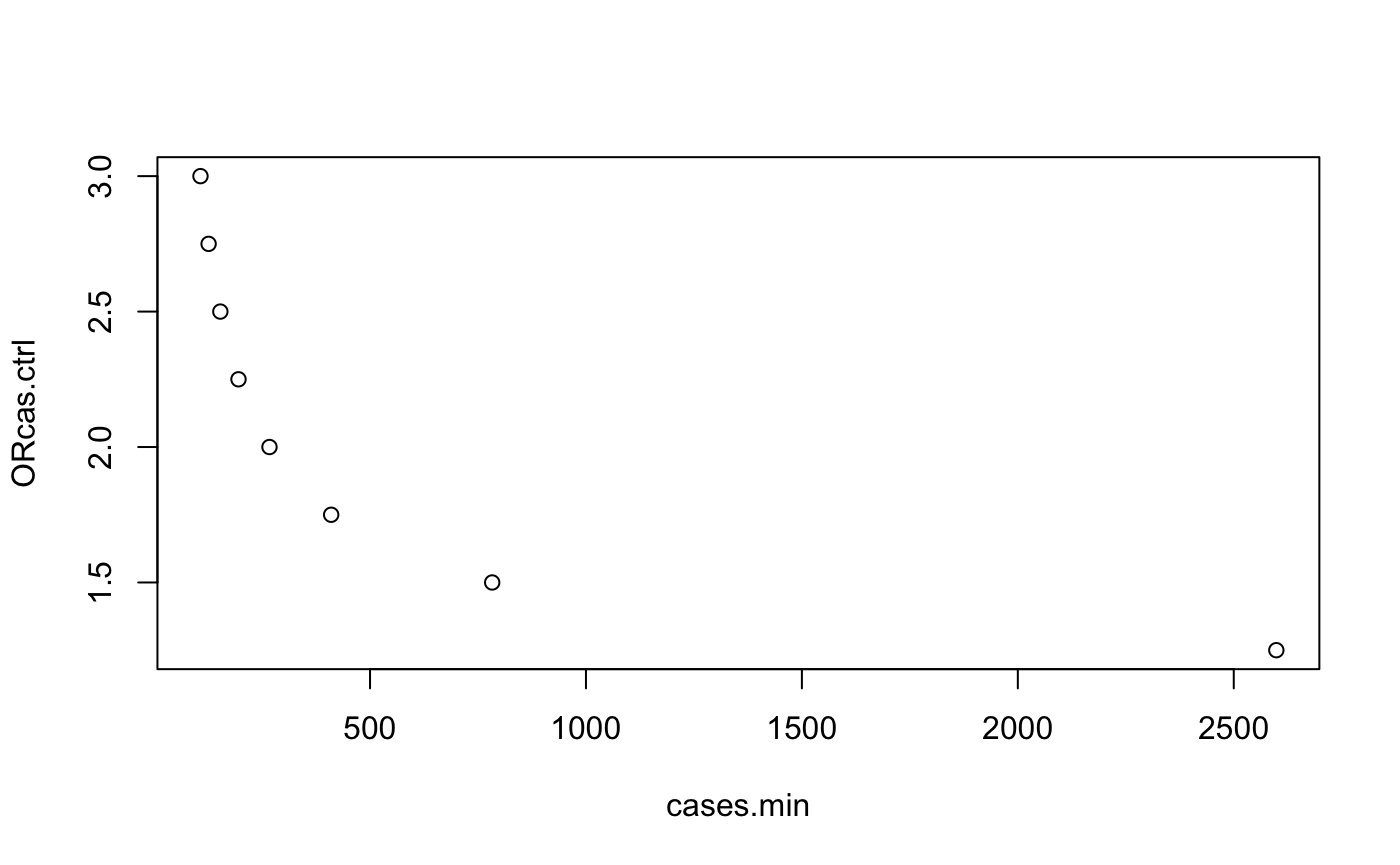
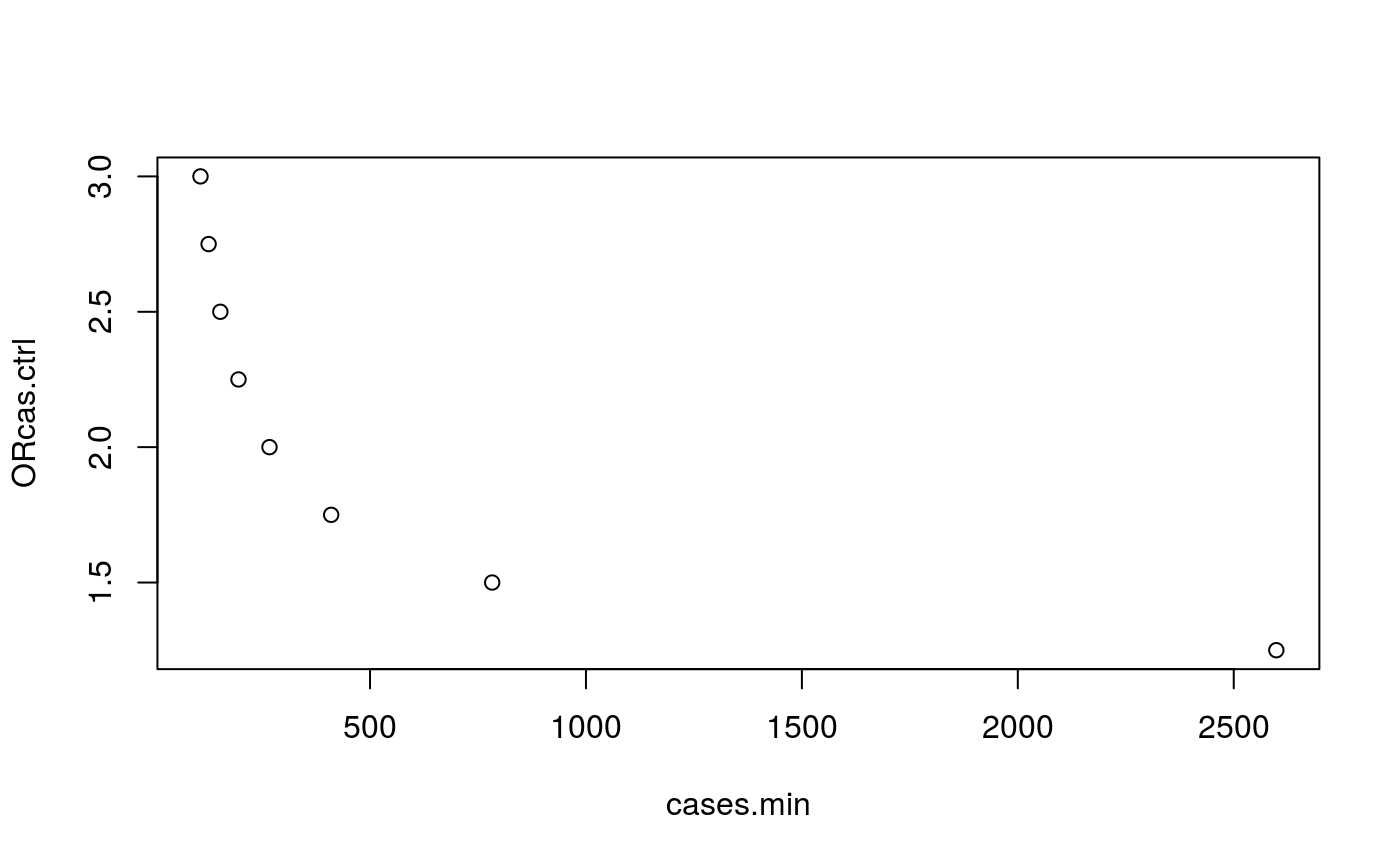
Updated car:: example

diff --git a/docs/index.html b/docs/index.html
@@ -8,8 +8,7 @@
 <title>Sample Size and Power for Association Studies Involving
     Mitochondrial DNA Haplogroups • mthapower</title>
 <!-- jquery --><script src="https://cdnjs.cloudflare.com/ajax/libs/jquery/3.3.1/jquery.min.js" integrity="sha256-FgpCb/KJQlLNfOu91ta32o/NMZxltwRo8QtmkMRdAu8=" crossorigin="anonymous"></script><!-- Bootstrap --><link href="https://cdnjs.cloudflare.com/ajax/libs/bootswatch/3.3.7/cosmo/bootstrap.min.css" rel="stylesheet" crossorigin="anonymous">
-<script src="https://cdnjs.cloudflare.com/ajax/libs/twitter-bootstrap/3.3.7/js/bootstrap.min.js" integrity="sha256-U5ZEeKfGNOja007MMD3YBI0A3OSZOQbeG6z2f2Y0hu8=" crossorigin="anonymous"></script><!-- Font Awesome icons --><link rel="stylesheet" href="https://cdnjs.cloudflare.com/ajax/libs/font-awesome/5.7.1/css/all.min.css" integrity="sha256-nAmazAk6vS34Xqo0BSrTb+abbtFlgsFK7NKSi6o7Y78=" crossorigin="anonymous">
-<link rel="stylesheet" href="https://cdnjs.cloudflare.com/ajax/libs/font-awesome/5.7.1/css/v4-shims.min.css" integrity="sha256-6qHlizsOWFskGlwVOKuns+D1nB6ssZrHQrNj1wGplHc=" crossorigin="anonymous">
+<script src="https://cdnjs.cloudflare.com/ajax/libs/twitter-bootstrap/3.3.7/js/bootstrap.min.js" integrity="sha256-U5ZEeKfGNOja007MMD3YBI0A3OSZOQbeG6z2f2Y0hu8=" crossorigin="anonymous"></script><!-- Font Awesome icons --><link rel="stylesheet" href="https://cdnjs.cloudflare.com/ajax/libs/font-awesome/4.7.0/css/font-awesome.min.css" integrity="sha256-eZrrJcwDc/3uDhsdt61sL2oOBY362qM3lon1gyExkL0=" crossorigin="anonymous">
 <!-- clipboard.js --><script src="https://cdnjs.cloudflare.com/ajax/libs/clipboard.js/2.0.4/clipboard.min.js" integrity="sha256-FiZwavyI2V6+EXO1U+xzLG3IKldpiTFf3153ea9zikQ=" crossorigin="anonymous"></script><!-- sticky kit --><script src="https://cdnjs.cloudflare.com/ajax/libs/sticky-kit/1.1.3/sticky-kit.min.js" integrity="sha256-c4Rlo1ZozqTPE2RLuvbusY3+SU1pQaJC0TjuhygMipw=" crossorigin="anonymous"></script><!-- pkgdown --><link href="pkgdown.css" rel="stylesheet">
 <script src="pkgdown.js"></script><link href="extra.css" rel="stylesheet">
 <meta property="og:title" content="Sample Size and Power for Association Studies Involving
@@ -93,12 +92,12 @@
 <ul>
 <li>From CRAN:</li>
 </ul>
-<div class="sourceCode"><pre class="sourceCode r"><code class="sourceCode r"><span class="kw"><a href="https://rdrr.io/r/utils/install.packages.html">install.packages</a></span>(<span class="st">"mthapower"</span>)</code></pre></div>
+<div class="sourceCode"><pre class="sourceCode r"><code class="sourceCode r"><span class="kw"><a href="https://www.rdocumentation.org/packages/utils/topics/install.packages">install.packages</a></span>(<span class="st">"mthapower"</span>)</code></pre></div>
 <ul>
 <li>From GitHub:</li>
 </ul>
 <div class="sourceCode"><pre class="sourceCode r"><code class="sourceCode r"><span class="co"># install.packages("devtools")</span>
-devtools<span class="op">::</span><span class="kw"><a href="https://rdrr.io/pkg/devtools/man/reexports.html">install_github</a></span>(<span class="st">"aurora-mareviv/mthapower"</span>)</code></pre></div>
+devtools<span class="op">::</span><span class="kw"><a href="https://www.rdocumentation.org/packages/devtools/topics/reexports">install_github</a></span>(<span class="st">"aurora-mareviv/mthapower"</span>)</code></pre></div>
 </div>
 <div id="shiny-app" class="section level2">
 <h2 class="hasAnchor">
@@ -109,7 +108,7 @@ devtools<span class="op">::</span><span class="kw"><a href="https://rdrr.io/pkg/
 <li>Run locally from Gist:</li>
 </ul>
 <div class="sourceCode"><pre class="sourceCode r"><code class="sourceCode r"><span class="co"># install.packages("shiny")</span>
-shiny<span class="op">::</span><span class="kw"><a href="https://rdrr.io/pkg/shiny/man/runUrl.html">runGist</a></span>(<span class="st">'5895082'</span>)</code></pre></div>
+shiny<span class="op">::</span><span class="kw"><a href="https://www.rdocumentation.org/packages/shiny/topics/runUrl">runGist</a></span>(<span class="st">'5895082'</span>)</code></pre></div>
 </div>
 <div id="examples" class="section level2">
 <h2 class="hasAnchor">
@@ -120,17 +119,17 @@ shiny<span class="op">::</span><span class="kw"><a href="https://rdrr.io/pkg/shi
 <ul>
 <li>Determine the minimum number of cases (<code>Ncmin</code>), required to detect: either a change from <code>p0</code> (haplogroup frequency in controls) to <code>p1</code> (haplogroup frequency in cases), or a given OR, with a predefined confidence interval, in a study with <code>Nh</code> haplogroups.</li>
 </ul>
-<div class="sourceCode"><pre class="sourceCode r"><code class="sourceCode r"><span class="kw"><a href="https://rdrr.io/r/base/library.html">library</a></span>(mthapower)
-<span class="kw"><a href="https://rdrr.io/r/base/library.html">library</a></span>(dplyr)
+<div class="sourceCode"><pre class="sourceCode r"><code class="sourceCode r"><span class="kw"><a href="https://www.rdocumentation.org/packages/base/topics/library">library</a></span>(mthapower)
+<span class="kw"><a href="https://www.rdocumentation.org/packages/base/topics/library">library</a></span>(dplyr)
 mydata &lt;-<span class="st"> </span><span class="kw"><a href="reference/mthacases.html">mthacases</a></span>(<span class="dt">p0=</span><span class="fl">0.445</span>, <span class="dt">Nh=</span><span class="dv">11</span>,
-                    <span class="dt">OR.cas.ctrl=</span><span class="kw"><a href="https://rdrr.io/r/base/c.html">c</a></span>(<span class="dv">2</span>), <span class="dt">power=</span><span class="dv">80</span>,
+                    <span class="dt">OR.cas.ctrl=</span><span class="kw"><a href="https://www.rdocumentation.org/packages/base/topics/c">c</a></span>(<span class="dv">2</span>), <span class="dt">power=</span><span class="dv">80</span>,
                     <span class="dt">sig.level=</span><span class="fl">0.05</span>) <span class="co"># Baudouin study</span>
 mydata &lt;-<span class="st"> </span><span class="kw"><a href="reference/mthacases.html">mthacases</a></span>(<span class="dt">p0=</span><span class="fl">0.445</span>, <span class="dt">Nh=</span><span class="dv">11</span>,
-                    <span class="dt">OR.cas.ctrl=</span><span class="kw"><a href="https://rdrr.io/r/base/c.html">c</a></span>(<span class="fl">1.25</span>,<span class="fl">1.5</span>,<span class="fl">1.75</span>,<span class="dv">2</span>,<span class="fl">2.25</span>,<span class="fl">2.5</span>,<span class="fl">2.75</span>,<span class="dv">3</span>),
+                    <span class="dt">OR.cas.ctrl=</span><span class="kw"><a href="https://www.rdocumentation.org/packages/base/topics/c">c</a></span>(<span class="fl">1.25</span>,<span class="fl">1.5</span>,<span class="fl">1.75</span>,<span class="dv">2</span>,<span class="fl">2.25</span>,<span class="fl">2.5</span>,<span class="fl">2.75</span>,<span class="dv">3</span>),
                     <span class="dt">power=</span><span class="dv">80</span>, <span class="dt">sig.level=</span><span class="fl">0.05</span>)
-mydata &lt;-<span class="st"> </span>mydata[<span class="kw"><a href="https://rdrr.io/r/base/c.html">c</a></span>(<span class="dv">2</span>,<span class="dv">6</span>)]
+mydata &lt;-<span class="st"> </span>mydata[<span class="kw"><a href="https://www.rdocumentation.org/packages/base/topics/c">c</a></span>(<span class="dv">2</span>,<span class="dv">6</span>)]
 mydata <span class="op">%&gt;%</span>
-<span class="st">  </span>knitr<span class="op">::</span><span class="kw"><a href="https://rdrr.io/pkg/knitr/man/kable.html">kable</a></span>()</code></pre></div>
+<span class="st">  </span>knitr<span class="op">::</span><span class="kw"><a href="https://www.rdocumentation.org/packages/knitr/topics/kable">kable</a></span>()</code></pre></div>
 <table class="table table">
 <thead><tr class="header">
 <th align="right">cases.min</th>
@@ -171,7 +170,7 @@ mydata <span class="op">%&gt;%</span>
 </tr>
 </tbody>
 </table>
-<div class="sourceCode"><pre class="sourceCode r"><code class="sourceCode r"><span class="kw"><a href="https://rdrr.io/r/graphics/plot.html">plot</a></span>(mydata)</code></pre></div>
+<div class="sourceCode"><pre class="sourceCode r"><code class="sourceCode r"><span class="kw"><a href="https://www.rdocumentation.org/packages/graphics/topics/plot">plot</a></span>(mydata)</code></pre></div>
 <p><img src="images/README-example-1.png" width="700"></p>
 </div>
 <div id="power-estimation" class="section level3">
@@ -184,7 +183,7 @@ mydata <span class="op">%&gt;%</span>
 <span class="co"># library(mthapower)</span>
 pow &lt;-<span class="st"> </span><span class="kw"><a href="reference/mthapower.html">mthapower</a></span>(<span class="dt">n.cases=</span><span class="dv">203</span>, <span class="dt">p0=</span><span class="fl">0.443</span>, <span class="dt">Nh=</span><span class="dv">13</span>, <span class="dt">OR.cas.ctrl=</span><span class="fl">2.33</span>, <span class="dt">sig.level=</span><span class="fl">0.05</span>)
 pow <span class="op">%&gt;%</span>
-<span class="st">  </span>knitr<span class="op">::</span><span class="kw"><a href="https://rdrr.io/pkg/knitr/man/kable.html">kable</a></span>()</code></pre></div>
+<span class="st">  </span>knitr<span class="op">::</span><span class="kw"><a href="https://www.rdocumentation.org/packages/knitr/topics/kable">kable</a></span>()</code></pre></div>
 <table class="table table">
 <thead><tr class="header">
 <th align="right">Nh</th>
@@ -209,29 +208,29 @@ pow <span class="op">%&gt;%</span>
 </table>
 <div class="sourceCode"><pre class="sourceCode r"><code class="sourceCode r"><span class="co"># Example 2b:</span>
 <span class="co"># Create data frames</span>
-pow.H150 &lt;-<span class="st"> </span><span class="kw"><a href="reference/mthapower.html">mthapower</a></span>(<span class="dt">n.cases=</span><span class="kw"><a href="https://rdrr.io/r/base/seq.html">seq</a></span>(<span class="dv">50</span>,<span class="dv">1000</span>,<span class="dt">by=</span><span class="dv">50</span>), <span class="dt">p0=</span><span class="fl">0.433</span>, <span class="dt">Nh=</span><span class="dv">11</span>,
+pow.H150 &lt;-<span class="st"> </span><span class="kw"><a href="reference/mthapower.html">mthapower</a></span>(<span class="dt">n.cases=</span><span class="kw"><a href="https://www.rdocumentation.org/packages/base/topics/seq">seq</a></span>(<span class="dv">50</span>,<span class="dv">1000</span>,<span class="dt">by=</span><span class="dv">50</span>), <span class="dt">p0=</span><span class="fl">0.433</span>, <span class="dt">Nh=</span><span class="dv">11</span>,
                       <span class="dt">OR.cas.ctrl=</span><span class="fl">1.5</span>, <span class="dt">sig.level=</span><span class="fl">0.05</span>)
-pow.H175 &lt;-<span class="st"> </span><span class="kw"><a href="reference/mthapower.html">mthapower</a></span>(<span class="dt">n.cases=</span><span class="kw"><a href="https://rdrr.io/r/base/seq.html">seq</a></span>(<span class="dv">50</span>,<span class="dv">1000</span>,<span class="dt">by=</span><span class="dv">50</span>), <span class="dt">p0=</span><span class="fl">0.433</span>, <span class="dt">Nh=</span><span class="dv">11</span>,
+pow.H175 &lt;-<span class="st"> </span><span class="kw"><a href="reference/mthapower.html">mthapower</a></span>(<span class="dt">n.cases=</span><span class="kw"><a href="https://www.rdocumentation.org/packages/base/topics/seq">seq</a></span>(<span class="dv">50</span>,<span class="dv">1000</span>,<span class="dt">by=</span><span class="dv">50</span>), <span class="dt">p0=</span><span class="fl">0.433</span>, <span class="dt">Nh=</span><span class="dv">11</span>,
                       <span class="dt">OR.cas.ctrl=</span><span class="fl">1.75</span>, <span class="dt">sig.level=</span><span class="fl">0.05</span>)
-pow.H200 &lt;-<span class="st"> </span><span class="kw"><a href="reference/mthapower.html">mthapower</a></span>(<span class="dt">n.cases=</span><span class="kw"><a href="https://rdrr.io/r/base/seq.html">seq</a></span>(<span class="dv">50</span>,<span class="dv">1000</span>,<span class="dt">by=</span><span class="dv">50</span>), <span class="dt">p0=</span><span class="fl">0.433</span>, <span class="dt">Nh=</span><span class="dv">11</span>,
+pow.H200 &lt;-<span class="st"> </span><span class="kw"><a href="reference/mthapower.html">mthapower</a></span>(<span class="dt">n.cases=</span><span class="kw"><a href="https://www.rdocumentation.org/packages/base/topics/seq">seq</a></span>(<span class="dv">50</span>,<span class="dv">1000</span>,<span class="dt">by=</span><span class="dv">50</span>), <span class="dt">p0=</span><span class="fl">0.433</span>, <span class="dt">Nh=</span><span class="dv">11</span>,
                       <span class="dt">OR.cas.ctrl=</span><span class="dv">2</span>, <span class="dt">sig.level=</span><span class="fl">0.05</span>)
-pow.H250 &lt;-<span class="st"> </span><span class="kw"><a href="reference/mthapower.html">mthapower</a></span>(<span class="dt">n.cases=</span><span class="kw"><a href="https://rdrr.io/r/base/seq.html">seq</a></span>(<span class="dv">50</span>,<span class="dv">1000</span>,<span class="dt">by=</span><span class="dv">50</span>), <span class="dt">p0=</span><span class="fl">0.433</span>, <span class="dt">Nh=</span><span class="dv">11</span>,
+pow.H250 &lt;-<span class="st"> </span><span class="kw"><a href="reference/mthapower.html">mthapower</a></span>(<span class="dt">n.cases=</span><span class="kw"><a href="https://www.rdocumentation.org/packages/base/topics/seq">seq</a></span>(<span class="dv">50</span>,<span class="dv">1000</span>,<span class="dt">by=</span><span class="dv">50</span>), <span class="dt">p0=</span><span class="fl">0.433</span>, <span class="dt">Nh=</span><span class="dv">11</span>,
                       <span class="dt">OR.cas.ctrl=</span><span class="fl">2.5</span>, <span class="dt">sig.level=</span><span class="fl">0.05</span>)
 
 <span class="co"># Bind the three data frames:</span>
-bindata &lt;-<span class="st"> </span><span class="kw"><a href="https://rdrr.io/r/base/cbind.html">rbind</a></span>(pow.H150,pow.H175,pow.H200,pow.H250)
+bindata &lt;-<span class="st"> </span><span class="kw"><a href="https://www.rdocumentation.org/packages/base/topics/cbind">rbind</a></span>(pow.H150,pow.H175,pow.H200,pow.H250)
 <span class="co"># Adds column OR to binded data frame:</span>
-bindata<span class="op">$</span>OR &lt;-<span class="st"> </span><span class="kw"><a href="https://rdrr.io/r/base/rep.html">rep</a></span>(<span class="kw"><a href="https://rdrr.io/r/base/factor.html">factor</a></span>(<span class="kw"><a href="https://rdrr.io/r/base/c.html">c</a></span>(<span class="fl">1.50</span>,<span class="fl">1.75</span>,<span class="dv">2</span>,<span class="fl">2.5</span>)),
-              <span class="dt">times =</span> <span class="kw"><a href="https://rdrr.io/r/base/c.html">c</a></span>(<span class="kw"><a href="https://rdrr.io/r/base/nrow.html">nrow</a></span>(pow.H150),
-                        <span class="kw"><a href="https://rdrr.io/r/base/nrow.html">nrow</a></span>(pow.H175),
-                        <span class="kw"><a href="https://rdrr.io/r/base/nrow.html">nrow</a></span>(pow.H200),
-                        <span class="kw"><a href="https://rdrr.io/r/base/nrow.html">nrow</a></span>(pow.H250)))
+bindata<span class="op">$</span>OR &lt;-<span class="st"> </span><span class="kw"><a href="https://www.rdocumentation.org/packages/base/topics/rep">rep</a></span>(<span class="kw"><a href="https://www.rdocumentation.org/packages/base/topics/factor">factor</a></span>(<span class="kw"><a href="https://www.rdocumentation.org/packages/base/topics/c">c</a></span>(<span class="fl">1.50</span>,<span class="fl">1.75</span>,<span class="dv">2</span>,<span class="fl">2.5</span>)),
+              <span class="dt">times =</span> <span class="kw"><a href="https://www.rdocumentation.org/packages/base/topics/c">c</a></span>(<span class="kw"><a href="https://www.rdocumentation.org/packages/base/topics/nrow">nrow</a></span>(pow.H150),
+                        <span class="kw"><a href="https://www.rdocumentation.org/packages/base/topics/nrow">nrow</a></span>(pow.H175),
+                        <span class="kw"><a href="https://www.rdocumentation.org/packages/base/topics/nrow">nrow</a></span>(pow.H200),
+                        <span class="kw"><a href="https://www.rdocumentation.org/packages/base/topics/nrow">nrow</a></span>(pow.H250)))
 <span class="co"># Create plot:</span>
 <span class="co"># install.packages("car")</span>
-<span class="kw"><a href="https://rdrr.io/r/base/library.html">library</a></span>(car)
-<span class="kw"><a href="https://rdrr.io/pkg/car/man/scatterplot.html">scatterplot</a></span>(power<span class="op">~</span>ncases <span class="op">|</span><span class="st"> </span>OR, <span class="dt">reg.line=</span><span class="ot">FALSE</span>,
-            <span class="dt">smooth=</span><span class="ot">FALSE</span>, <span class="dt">spread=</span><span class="ot">FALSE</span>,
-            <span class="dt">boxplots=</span><span class="ot">FALSE</span>, <span class="dt">span=</span><span class="fl">0.25</span>, <span class="dt">by.groups=</span><span class="ot">FALSE</span>,
+<span class="kw"><a href="https://www.rdocumentation.org/packages/base/topics/library">library</a></span>(car)
+<span class="kw"><a href="https://www.rdocumentation.org/packages/car/topics/scatterplot">scatterplot</a></span>(power<span class="op">~</span>ncases <span class="op">|</span><span class="st"> </span>OR, <span class="dt">regLine=</span><span class="ot">FALSE</span>,
+            <span class="dt">smooth=</span><span class="ot">FALSE</span>,
+            <span class="dt">boxplots=</span><span class="ot">FALSE</span>,  <span class="dt">by.groups=</span><span class="ot">TRUE</span>,
             <span class="dt">data=</span>bindata)</code></pre></div>
 <p><img src="images/README-example2b-1.png" width="700"></p>
 </div>
@@ -282,7 +281,7 @@ bindata<span class="op">$</span>OR &lt;-<span class="st"> </span><span class="kw
 </div>
 
 <div class="pkgdown">
-  <p>Site built with <a href="https://pkgdown.r-lib.org/">pkgdown</a> 1.3.0.9000.</p>
+  <p>Site built with <a href="https://pkgdown.r-lib.org/">pkgdown</a> 1.3.0.</p>
 </div>
       </footer>
 </div>

diff --git a/docs/reference/mthapower.html b/docs/reference/mthapower.html
@@ -16,8 +16,7 @@
 <script src="https://cdnjs.cloudflare.com/ajax/libs/twitter-bootstrap/3.3.7/js/bootstrap.min.js" integrity="sha256-U5ZEeKfGNOja007MMD3YBI0A3OSZOQbeG6z2f2Y0hu8=" crossorigin="anonymous"></script>
 
 <!-- Font Awesome icons -->
-<link rel="stylesheet" href="https://cdnjs.cloudflare.com/ajax/libs/font-awesome/5.7.1/css/all.min.css" integrity="sha256-nAmazAk6vS34Xqo0BSrTb+abbtFlgsFK7NKSi6o7Y78=" crossorigin="anonymous" />
-<link rel="stylesheet" href="https://cdnjs.cloudflare.com/ajax/libs/font-awesome/5.7.1/css/v4-shims.min.css" integrity="sha256-6qHlizsOWFskGlwVOKuns+D1nB6ssZrHQrNj1wGplHc=" crossorigin="anonymous" />
+<link rel="stylesheet" href="https://cdnjs.cloudflare.com/ajax/libs/font-awesome/4.7.0/css/font-awesome.min.css" integrity="sha256-eZrrJcwDc/3uDhsdt61sL2oOBY362qM3lon1gyExkL0=" crossorigin="anonymous" />
 
 <!-- clipboard.js -->
 <script src="https://cdnjs.cloudflare.com/ajax/libs/clipboard.js/2.0.4/clipboard.min.js" integrity="sha256-FiZwavyI2V6+EXO1U+xzLG3IKldpiTFf3153ea9zikQ=" crossorigin="anonymous"></script>
@@ -168,29 +167,29 @@ This function may not be generalizable for all studies involving mtDNA haplogrou
 
 <span class='co'># Example 2:</span>
 <span class='co'># Create data frames</span>
-<span class='no'>pow.H150</span> <span class='kw'>&lt;-</span> <span class='fu'>mthapower</span>(<span class='kw'>n.cases</span><span class='kw'>=</span><span class='fu'><a href='https://rdrr.io/r/base/seq.html'>seq</a></span>(<span class='fl'>50</span>,<span class='fl'>1000</span>,<span class='kw'>by</span><span class='kw'>=</span><span class='fl'>50</span>), <span class='kw'>p0</span><span class='kw'>=</span><span class='fl'>0.433</span>, <span class='kw'>Nh</span><span class='kw'>=</span><span class='fl'>11</span>,
+<span class='no'>pow.H150</span> <span class='kw'>&lt;-</span> <span class='fu'>mthapower</span>(<span class='kw'>n.cases</span><span class='kw'>=</span><span class='fu'><a href='https://www.rdocumentation.org/packages/base/topics/seq'>seq</a></span>(<span class='fl'>50</span>,<span class='fl'>1000</span>,<span class='kw'>by</span><span class='kw'>=</span><span class='fl'>50</span>), <span class='kw'>p0</span><span class='kw'>=</span><span class='fl'>0.433</span>, <span class='kw'>Nh</span><span class='kw'>=</span><span class='fl'>11</span>,
                       <span class='kw'>OR.cas.ctrl</span><span class='kw'>=</span><span class='fl'>1.5</span>, <span class='kw'>sig.level</span><span class='kw'>=</span><span class='fl'>0.05</span>)
-<span class='no'>pow.H175</span> <span class='kw'>&lt;-</span> <span class='fu'>mthapower</span>(<span class='kw'>n.cases</span><span class='kw'>=</span><span class='fu'><a href='https://rdrr.io/r/base/seq.html'>seq</a></span>(<span class='fl'>50</span>,<span class='fl'>1000</span>,<span class='kw'>by</span><span class='kw'>=</span><span class='fl'>50</span>), <span class='kw'>p0</span><span class='kw'>=</span><span class='fl'>0.433</span>, <span class='kw'>Nh</span><span class='kw'>=</span><span class='fl'>11</span>,
+<span class='no'>pow.H175</span> <span class='kw'>&lt;-</span> <span class='fu'>mthapower</span>(<span class='kw'>n.cases</span><span class='kw'>=</span><span class='fu'><a href='https://www.rdocumentation.org/packages/base/topics/seq'>seq</a></span>(<span class='fl'>50</span>,<span class='fl'>1000</span>,<span class='kw'>by</span><span class='kw'>=</span><span class='fl'>50</span>), <span class='kw'>p0</span><span class='kw'>=</span><span class='fl'>0.433</span>, <span class='kw'>Nh</span><span class='kw'>=</span><span class='fl'>11</span>,
                       <span class='kw'>OR.cas.ctrl</span><span class='kw'>=</span><span class='fl'>1.75</span>, <span class='kw'>sig.level</span><span class='kw'>=</span><span class='fl'>0.05</span>)
-<span class='no'>pow.H200</span> <span class='kw'>&lt;-</span> <span class='fu'>mthapower</span>(<span class='kw'>n.cases</span><span class='kw'>=</span><span class='fu'><a href='https://rdrr.io/r/base/seq.html'>seq</a></span>(<span class='fl'>50</span>,<span class='fl'>1000</span>,<span class='kw'>by</span><span class='kw'>=</span><span class='fl'>50</span>), <span class='kw'>p0</span><span class='kw'>=</span><span class='fl'>0.433</span>, <span class='kw'>Nh</span><span class='kw'>=</span><span class='fl'>11</span>,
+<span class='no'>pow.H200</span> <span class='kw'>&lt;-</span> <span class='fu'>mthapower</span>(<span class='kw'>n.cases</span><span class='kw'>=</span><span class='fu'><a href='https://www.rdocumentation.org/packages/base/topics/seq'>seq</a></span>(<span class='fl'>50</span>,<span class='fl'>1000</span>,<span class='kw'>by</span><span class='kw'>=</span><span class='fl'>50</span>), <span class='kw'>p0</span><span class='kw'>=</span><span class='fl'>0.433</span>, <span class='kw'>Nh</span><span class='kw'>=</span><span class='fl'>11</span>,
                       <span class='kw'>OR.cas.ctrl</span><span class='kw'>=</span><span class='fl'>2</span>, <span class='kw'>sig.level</span><span class='kw'>=</span><span class='fl'>0.05</span>)
-<span class='no'>pow.H250</span> <span class='kw'>&lt;-</span> <span class='fu'>mthapower</span>(<span class='kw'>n.cases</span><span class='kw'>=</span><span class='fu'><a href='https://rdrr.io/r/base/seq.html'>seq</a></span>(<span class='fl'>50</span>,<span class='fl'>1000</span>,<span class='kw'>by</span><span class='kw'>=</span><span class='fl'>50</span>), <span class='kw'>p0</span><span class='kw'>=</span><span class='fl'>0.433</span>, <span class='kw'>Nh</span><span class='kw'>=</span><span class='fl'>11</span>,
+<span class='no'>pow.H250</span> <span class='kw'>&lt;-</span> <span class='fu'>mthapower</span>(<span class='kw'>n.cases</span><span class='kw'>=</span><span class='fu'><a href='https://www.rdocumentation.org/packages/base/topics/seq'>seq</a></span>(<span class='fl'>50</span>,<span class='fl'>1000</span>,<span class='kw'>by</span><span class='kw'>=</span><span class='fl'>50</span>), <span class='kw'>p0</span><span class='kw'>=</span><span class='fl'>0.433</span>, <span class='kw'>Nh</span><span class='kw'>=</span><span class='fl'>11</span>,
                       <span class='kw'>OR.cas.ctrl</span><span class='kw'>=</span><span class='fl'>2.5</span>, <span class='kw'>sig.level</span><span class='kw'>=</span><span class='fl'>0.05</span>)
 
 <span class='co'># Bind the three data frames:</span>
-<span class='no'>bindata</span> <span class='kw'>&lt;-</span> <span class='fu'><a href='https://rdrr.io/r/base/cbind.html'>rbind</a></span>(<span class='no'>pow.H150</span>,<span class='no'>pow.H175</span>,<span class='no'>pow.H200</span>,<span class='no'>pow.H250</span>)
+<span class='no'>bindata</span> <span class='kw'>&lt;-</span> <span class='fu'><a href='https://www.rdocumentation.org/packages/base/topics/cbind'>rbind</a></span>(<span class='no'>pow.H150</span>,<span class='no'>pow.H175</span>,<span class='no'>pow.H200</span>,<span class='no'>pow.H250</span>)
 <span class='co'># Adds column OR to binded data frame:</span>
-<span class='no'>bindata</span>$<span class='no'>OR</span> <span class='kw'>&lt;-</span> <span class='fu'><a href='https://rdrr.io/r/base/rep.html'>rep</a></span>(<span class='fu'><a href='https://rdrr.io/r/base/factor.html'>factor</a></span>(<span class='fu'><a href='https://rdrr.io/r/base/c.html'>c</a></span>(<span class='fl'>1.50</span>,<span class='fl'>1.75</span>,<span class='fl'>2</span>,<span class='fl'>2.5</span>)),
-              <span class='kw'>times</span> <span class='kw'>=</span> <span class='fu'><a href='https://rdrr.io/r/base/c.html'>c</a></span>(<span class='fu'><a href='https://rdrr.io/r/base/nrow.html'>nrow</a></span>(<span class='no'>pow.H150</span>),
-                        <span class='fu'><a href='https://rdrr.io/r/base/nrow.html'>nrow</a></span>(<span class='no'>pow.H175</span>),
-                        <span class='fu'><a href='https://rdrr.io/r/base/nrow.html'>nrow</a></span>(<span class='no'>pow.H200</span>),
-                        <span class='fu'><a href='https://rdrr.io/r/base/nrow.html'>nrow</a></span>(<span class='no'>pow.H250</span>)))
+<span class='no'>bindata</span>$<span class='no'>OR</span> <span class='kw'>&lt;-</span> <span class='fu'><a href='https://www.rdocumentation.org/packages/base/topics/rep'>rep</a></span>(<span class='fu'><a href='https://www.rdocumentation.org/packages/base/topics/factor'>factor</a></span>(<span class='fu'><a href='https://www.rdocumentation.org/packages/base/topics/c'>c</a></span>(<span class='fl'>1.50</span>,<span class='fl'>1.75</span>,<span class='fl'>2</span>,<span class='fl'>2.5</span>)),
+              <span class='kw'>times</span> <span class='kw'>=</span> <span class='fu'><a href='https://www.rdocumentation.org/packages/base/topics/c'>c</a></span>(<span class='fu'><a href='https://www.rdocumentation.org/packages/base/topics/nrow'>nrow</a></span>(<span class='no'>pow.H150</span>),
+                        <span class='fu'><a href='https://www.rdocumentation.org/packages/base/topics/nrow'>nrow</a></span>(<span class='no'>pow.H175</span>),
+                        <span class='fu'><a href='https://www.rdocumentation.org/packages/base/topics/nrow'>nrow</a></span>(<span class='no'>pow.H200</span>),
+                        <span class='fu'><a href='https://www.rdocumentation.org/packages/base/topics/nrow'>nrow</a></span>(<span class='no'>pow.H250</span>)))
 <span class='co'># Create plot:</span>
 <span class='co'># install.packages("car")</span>
-<span class='fu'><a href='https://rdrr.io/r/base/library.html'>library</a></span>(<span class='no'>car</span>)</div><div class='output co'>#&gt; <span class='warning'>Warning: package ‘car’ was built under R version 3.4.4</span></div><div class='output co'>#&gt; <span class='message'>Loading required package: carData</span></div><div class='output co'>#&gt; <span class='warning'>Warning: package ‘carData’ was built under R version 3.4.4</span></div><div class='input'><span class='fu'><a href='https://rdrr.io/pkg/car/man/scatterplot.html'>scatterplot</a></span>(<span class='no'>power</span>~<span class='no'>ncases</span> <span class='kw'>|</span> <span class='no'>OR</span>, <span class='kw'>reg.line</span><span class='kw'>=</span><span class='fl'>FALSE</span>,
-            <span class='kw'>smooth</span><span class='kw'>=</span><span class='fl'>FALSE</span>, <span class='kw'>spread</span><span class='kw'>=</span><span class='fl'>FALSE</span>,
-            <span class='kw'>boxplots</span><span class='kw'>=</span><span class='fl'>FALSE</span>, <span class='kw'>span</span><span class='kw'>=</span><span class='fl'>0.25</span>, <span class='kw'>by.groups</span><span class='kw'>=</span><span class='fl'>FALSE</span>,
-            <span class='kw'>data</span><span class='kw'>=</span><span class='no'>bindata</span>)</div><div class='output co'>#&gt; <span class='warning'>Warning: "reg.line" is not a graphical parameter</span></div><div class='output co'>#&gt; <span class='warning'>Warning: "spread" is not a graphical parameter</span></div><div class='output co'>#&gt; <span class='warning'>Warning: "span" is not a graphical parameter</span></div><div class='output co'>#&gt; <span class='warning'>Warning: "reg.line" is not a graphical parameter</span></div><div class='output co'>#&gt; <span class='warning'>Warning: "spread" is not a graphical parameter</span></div><div class='output co'>#&gt; <span class='warning'>Warning: "span" is not a graphical parameter</span></div><div class='output co'>#&gt; <span class='warning'>Warning: "reg.line" is not a graphical parameter</span></div><div class='output co'>#&gt; <span class='warning'>Warning: "spread" is not a graphical parameter</span></div><div class='output co'>#&gt; <span class='warning'>Warning: "span" is not a graphical parameter</span></div><div class='output co'>#&gt; <span class='warning'>Warning: "reg.line" is not a graphical parameter</span></div><div class='output co'>#&gt; <span class='warning'>Warning: "spread" is not a graphical parameter</span></div><div class='output co'>#&gt; <span class='warning'>Warning: "span" is not a graphical parameter</span></div><div class='output co'>#&gt; <span class='warning'>Warning: "reg.line" is not a graphical parameter</span></div><div class='output co'>#&gt; <span class='warning'>Warning: "spread" is not a graphical parameter</span></div><div class='output co'>#&gt; <span class='warning'>Warning: "span" is not a graphical parameter</span></div><div class='output co'>#&gt; <span class='warning'>Warning: "reg.line" is not a graphical parameter</span></div><div class='output co'>#&gt; <span class='warning'>Warning: "spread" is not a graphical parameter</span></div><div class='output co'>#&gt; <span class='warning'>Warning: "span" is not a graphical parameter</span></div><div class='img'><img src='mthapower-1.png' alt='' width='700' height='433' /></div><div class='input'>
+<span class='fu'><a href='https://www.rdocumentation.org/packages/base/topics/library'>library</a></span>(<span class='no'>car</span>)</div><div class='output co'>#&gt; <span class='message'>Loading required package: carData</span></div><div class='input'><span class='fu'><a href='https://www.rdocumentation.org/packages/car/topics/scatterplot'>scatterplot</a></span>(<span class='no'>power</span>~<span class='no'>ncases</span> <span class='kw'>|</span> <span class='no'>OR</span>, <span class='kw'>regLine</span><span class='kw'>=</span><span class='fl'>FALSE</span>,
+            <span class='kw'>smooth</span><span class='kw'>=</span><span class='fl'>FALSE</span>,
+            <span class='kw'>boxplots</span><span class='kw'>=</span><span class='fl'>FALSE</span>,  <span class='kw'>by.groups</span><span class='kw'>=</span><span class='fl'>TRUE</span>,
+            <span class='kw'>data</span><span class='kw'>=</span><span class='no'>bindata</span>)</div><div class='img'><img src='mthapower-1.png' alt='' width='700' height='433' /></div><div class='input'>
 </div></pre>
   </div>
   <div class="col-md-3 hidden-xs hidden-sm" id="sidebar">
@@ -216,7 +215,7 @@ This function may not be generalizable for all studies involving mtDNA haplogrou
 </div>
 
 <div class="pkgdown">
-  <p>Site built with <a href="https://pkgdown.r-lib.org/">pkgdown</a> 1.3.0.9000.</p>
+  <p>Site built with <a href="https://pkgdown.r-lib.org/">pkgdown</a> 1.3.0.</p>
 </div>
       </footer>
    </div>

diff --git a/docs/reference/mthacases.html b/docs/reference/mthacases.html
@@ -16,8 +16,7 @@
 <script src="https://cdnjs.cloudflare.com/ajax/libs/twitter-bootstrap/3.3.7/js/bootstrap.min.js" integrity="sha256-U5ZEeKfGNOja007MMD3YBI0A3OSZOQbeG6z2f2Y0hu8=" crossorigin="anonymous"></script>
 
 <!-- Font Awesome icons -->
-<link rel="stylesheet" href="https://cdnjs.cloudflare.com/ajax/libs/font-awesome/5.7.1/css/all.min.css" integrity="sha256-nAmazAk6vS34Xqo0BSrTb+abbtFlgsFK7NKSi6o7Y78=" crossorigin="anonymous" />
-<link rel="stylesheet" href="https://cdnjs.cloudflare.com/ajax/libs/font-awesome/5.7.1/css/v4-shims.min.css" integrity="sha256-6qHlizsOWFskGlwVOKuns+D1nB6ssZrHQrNj1wGplHc=" crossorigin="anonymous" />
+<link rel="stylesheet" href="https://cdnjs.cloudflare.com/ajax/libs/font-awesome/4.7.0/css/font-awesome.min.css" integrity="sha256-eZrrJcwDc/3uDhsdt61sL2oOBY362qM3lon1gyExkL0=" crossorigin="anonymous" />
 
 <!-- clipboard.js -->
 <script src="https://cdnjs.cloudflare.com/ajax/libs/clipboard.js/2.0.4/clipboard.min.js" integrity="sha256-FiZwavyI2V6+EXO1U+xzLG3IKldpiTFf3153ea9zikQ=" crossorigin="anonymous"></script>
@@ -164,12 +163,12 @@ This function may not be generalizable for all studies involving mtDNA haplogrou
 
     <h2 class="hasAnchor" id="examples"><a class="anchor" href="#examples"></a>Examples</h2>
     <pre class="examples"><div class='input'><span class='no'>mydata</span> <span class='kw'>&lt;-</span> <span class='fu'>mthacases</span>(<span class='kw'>p0</span><span class='kw'>=</span><span class='fl'>0.445</span>, <span class='kw'>Nh</span><span class='kw'>=</span><span class='fl'>11</span>,
-                    <span class='kw'>OR.cas.ctrl</span><span class='kw'>=</span><span class='fu'><a href='https://rdrr.io/r/base/c.html'>c</a></span>(<span class='fl'>2</span>), <span class='kw'>power</span><span class='kw'>=</span><span class='fl'>80</span>,
+                    <span class='kw'>OR.cas.ctrl</span><span class='kw'>=</span><span class='fu'><a href='https://www.rdocumentation.org/packages/base/topics/c'>c</a></span>(<span class='fl'>2</span>), <span class='kw'>power</span><span class='kw'>=</span><span class='fl'>80</span>,
                     <span class='kw'>sig.level</span><span class='kw'>=</span><span class='fl'>0.05</span>) <span class='co'># Baudouin study</span>
 <span class='no'>mydata</span> <span class='kw'>&lt;-</span> <span class='fu'>mthacases</span>(<span class='kw'>p0</span><span class='kw'>=</span><span class='fl'>0.445</span>, <span class='kw'>Nh</span><span class='kw'>=</span><span class='fl'>11</span>,
-                    <span class='kw'>OR.cas.ctrl</span><span class='kw'>=</span><span class='fu'><a href='https://rdrr.io/r/base/c.html'>c</a></span>(<span class='fl'>1.25</span>,<span class='fl'>1.5</span>,<span class='fl'>1.75</span>,<span class='fl'>2</span>,<span class='fl'>2.25</span>,<span class='fl'>2.5</span>,<span class='fl'>2.75</span>,<span class='fl'>3</span>),
+                    <span class='kw'>OR.cas.ctrl</span><span class='kw'>=</span><span class='fu'><a href='https://www.rdocumentation.org/packages/base/topics/c'>c</a></span>(<span class='fl'>1.25</span>,<span class='fl'>1.5</span>,<span class='fl'>1.75</span>,<span class='fl'>2</span>,<span class='fl'>2.25</span>,<span class='fl'>2.5</span>,<span class='fl'>2.75</span>,<span class='fl'>3</span>),
                     <span class='kw'>power</span><span class='kw'>=</span><span class='fl'>80</span>, <span class='kw'>sig.level</span><span class='kw'>=</span><span class='fl'>0.05</span>)
-<span class='no'>mydata</span> <span class='kw'>&lt;-</span> <span class='no'>mydata</span>[<span class='fu'><a href='https://rdrr.io/r/base/c.html'>c</a></span>(<span class='fl'>2</span>,<span class='fl'>6</span>)]
+<span class='no'>mydata</span> <span class='kw'>&lt;-</span> <span class='no'>mydata</span>[<span class='fu'><a href='https://www.rdocumentation.org/packages/base/topics/c'>c</a></span>(<span class='fl'>2</span>,<span class='fl'>6</span>)]
 <span class='no'>mydata</span></div><div class='output co'>#&gt;   cases.min ORcas.ctrl
 #&gt; 1  2598.580       1.25
 #&gt; 2   782.882       1.50
@@ -178,7 +177,7 @@ This function may not be generalizable for all studies involving mtDNA haplogrou
 #&gt; 5   195.428       2.25
 #&gt; 6   153.394       2.50
 #&gt; 7   126.216       2.75
-#&gt; 8   107.388       3.00</div><div class='input'><span class='fu'><a href='https://rdrr.io/r/graphics/plot.html'>plot</a></span>(<span class='no'>mydata</span>)</div><div class='img'><img src='mthacases-1.png' alt='' width='700' height='433' /></div><div class='input'>
+#&gt; 8   107.388       3.00</div><div class='input'><span class='fu'><a href='https://www.rdocumentation.org/packages/graphics/topics/plot'>plot</a></span>(<span class='no'>mydata</span>)</div><div class='img'><img src='mthacases-1.png' alt='' width='700' height='433' /></div><div class='input'>
 </div></pre>
   </div>
   <div class="col-md-3 hidden-xs hidden-sm" id="sidebar">
@@ -204,7 +203,7 @@ This function may not be generalizable for all studies involving mtDNA haplogrou
 </div>
 
 <div class="pkgdown">
-  <p>Site built with <a href="https://pkgdown.r-lib.org/">pkgdown</a> 1.3.0.9000.</p>
+  <p>Site built with <a href="https://pkgdown.r-lib.org/">pkgdown</a> 1.3.0.</p>
 </div>
       </footer>
    </div>

diff --git a/docs/authors.html b/docs/authors.html
@@ -16,8 +16,7 @@
 <script src="https://cdnjs.cloudflare.com/ajax/libs/twitter-bootstrap/3.3.7/js/bootstrap.min.js" integrity="sha256-U5ZEeKfGNOja007MMD3YBI0A3OSZOQbeG6z2f2Y0hu8=" crossorigin="anonymous"></script>
 
 <!-- Font Awesome icons -->
-<link rel="stylesheet" href="https://cdnjs.cloudflare.com/ajax/libs/font-awesome/5.7.1/css/all.min.css" integrity="sha256-nAmazAk6vS34Xqo0BSrTb+abbtFlgsFK7NKSi6o7Y78=" crossorigin="anonymous" />
-<link rel="stylesheet" href="https://cdnjs.cloudflare.com/ajax/libs/font-awesome/5.7.1/css/v4-shims.min.css" integrity="sha256-6qHlizsOWFskGlwVOKuns+D1nB6ssZrHQrNj1wGplHc=" crossorigin="anonymous" />
+<link rel="stylesheet" href="https://cdnjs.cloudflare.com/ajax/libs/font-awesome/4.7.0/css/font-awesome.min.css" integrity="sha256-eZrrJcwDc/3uDhsdt61sL2oOBY362qM3lon1gyExkL0=" crossorigin="anonymous" />
 
 <!-- clipboard.js -->
 <script src="https://cdnjs.cloudflare.com/ajax/libs/clipboard.js/2.0.4/clipboard.min.js" integrity="sha256-FiZwavyI2V6+EXO1U+xzLG3IKldpiTFf3153ea9zikQ=" crossorigin="anonymous"></script>
@@ -126,7 +125,7 @@
 </div>
 
 <div class="pkgdown">
-  <p>Site built with <a href="https://pkgdown.r-lib.org/">pkgdown</a> 1.3.0.9000.</p>
+  <p>Site built with <a href="https://pkgdown.r-lib.org/">pkgdown</a> 1.3.0.</p>
 </div>
       </footer>
    </div>

diff --git a/docs/news/index.html b/docs/news/index.html
@@ -16,8 +16,7 @@
 <script src="https://cdnjs.cloudflare.com/ajax/libs/twitter-bootstrap/3.3.7/js/bootstrap.min.js" integrity="sha256-U5ZEeKfGNOja007MMD3YBI0A3OSZOQbeG6z2f2Y0hu8=" crossorigin="anonymous"></script>
 
 <!-- Font Awesome icons -->
-<link rel="stylesheet" href="https://cdnjs.cloudflare.com/ajax/libs/font-awesome/5.7.1/css/all.min.css" integrity="sha256-nAmazAk6vS34Xqo0BSrTb+abbtFlgsFK7NKSi6o7Y78=" crossorigin="anonymous" />
-<link rel="stylesheet" href="https://cdnjs.cloudflare.com/ajax/libs/font-awesome/5.7.1/css/v4-shims.min.css" integrity="sha256-6qHlizsOWFskGlwVOKuns+D1nB6ssZrHQrNj1wGplHc=" crossorigin="anonymous" />
+<link rel="stylesheet" href="https://cdnjs.cloudflare.com/ajax/libs/font-awesome/4.7.0/css/font-awesome.min.css" integrity="sha256-eZrrJcwDc/3uDhsdt61sL2oOBY362qM3lon1gyExkL0=" crossorigin="anonymous" />
 
 <!-- clipboard.js -->
 <script src="https://cdnjs.cloudflare.com/ajax/libs/clipboard.js/2.0.4/clipboard.min.js" integrity="sha256-FiZwavyI2V6+EXO1U+xzLG3IKldpiTFf3153ea9zikQ=" crossorigin="anonymous"></script>
@@ -127,7 +126,7 @@
 </div>
 
 <div class="pkgdown">
-  <p>Site built with <a href="https://pkgdown.r-lib.org/">pkgdown</a> 1.3.0.9000.</p>
+  <p>Site built with <a href="https://pkgdown.r-lib.org/">pkgdown</a> 1.3.0.</p>
 </div>
       </footer>
    </div>

diff --git a/docs/reference/index.html b/docs/reference/index.html
@@ -16,8 +16,7 @@
 <script src="https://cdnjs.cloudflare.com/ajax/libs/twitter-bootstrap/3.3.7/js/bootstrap.min.js" integrity="sha256-U5ZEeKfGNOja007MMD3YBI0A3OSZOQbeG6z2f2Y0hu8=" crossorigin="anonymous"></script>
 
 <!-- Font Awesome icons -->
-<link rel="stylesheet" href="https://cdnjs.cloudflare.com/ajax/libs/font-awesome/5.7.1/css/all.min.css" integrity="sha256-nAmazAk6vS34Xqo0BSrTb+abbtFlgsFK7NKSi6o7Y78=" crossorigin="anonymous" />
-<link rel="stylesheet" href="https://cdnjs.cloudflare.com/ajax/libs/font-awesome/5.7.1/css/v4-shims.min.css" integrity="sha256-6qHlizsOWFskGlwVOKuns+D1nB6ssZrHQrNj1wGplHc=" crossorigin="anonymous" />
+<link rel="stylesheet" href="https://cdnjs.cloudflare.com/ajax/libs/font-awesome/4.7.0/css/font-awesome.min.css" integrity="sha256-eZrrJcwDc/3uDhsdt61sL2oOBY362qM3lon1gyExkL0=" crossorigin="anonymous" />
 
 <!-- clipboard.js -->
 <script src="https://cdnjs.cloudflare.com/ajax/libs/clipboard.js/2.0.4/clipboard.min.js" integrity="sha256-FiZwavyI2V6+EXO1U+xzLG3IKldpiTFf3153ea9zikQ=" crossorigin="anonymous"></script>
@@ -154,7 +153,7 @@
 </div>
 
 <div class="pkgdown">
-  <p>Site built with <a href="https://pkgdown.r-lib.org/">pkgdown</a> 1.3.0.9000.</p>
+  <p>Site built with <a href="https://pkgdown.r-lib.org/">pkgdown</a> 1.3.0.</p>
 </div>
       </footer>
    </div>

diff --git a/docs/extra.css b/docs/extra.css
@@ -165,7 +165,8 @@ a:hover{
 .sourceCode > .kw > .a,
 .usage > .kw > .a,
 .input  > .kw > .a,
-.output  > .kw > .a {
+.output  > .kw > .a
+.output  > .message {
    color: var(--lightBlue-hover) !important;
 }
 .sourceCode  > .st, .usage  > .st, .input > .st, .output > .st {

diff --git a/pkgdown/extra.css b/pkgdown/extra.css
@@ -165,7 +165,8 @@ a:hover{
 .sourceCode > .kw > .a,
 .usage > .kw > .a,
 .input  > .kw > .a,
-.output  > .kw > .a {
+.output  > .kw > .a
+.output  > .message {
    color: var(--lightBlue-hover) !important;
 }
 .sourceCode  > .st, .usage  > .st, .input > .st, .output > .st {

diff --git a/docs/pkgdown.css b/docs/pkgdown.css
@@ -234,9 +234,3 @@ mark {
 .html-widget {
   margin-bottom: 10px;
 }
-
-/* fontawesome ------------------------ */
-
-.fab {
-    font-family: "Font Awesome 5 Brands" !important;
-}

diff --git a/NEWS.md b/NEWS.md
@@ -23,3 +23,7 @@ Shiny app
 # install.packages("shiny")
 shiny::runGist('5895082')
 ```
+
+Version 0.1.1: updated `mthapower` example according to the new `car` package version.
+
+
